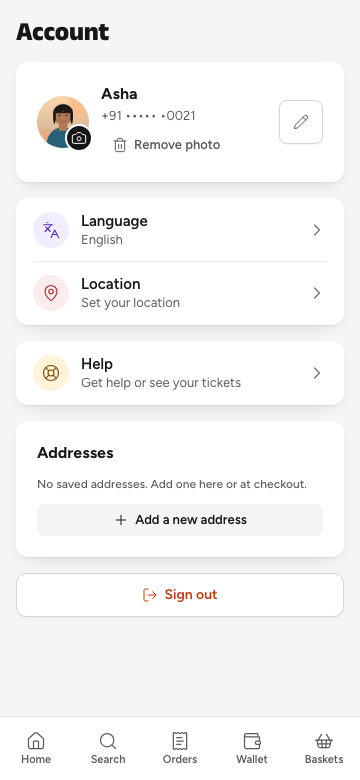
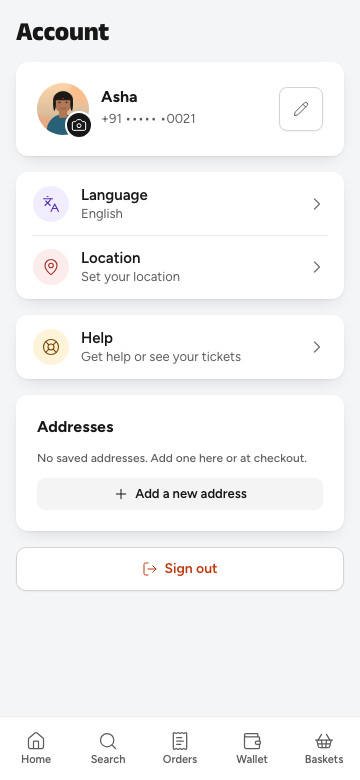
Profile photo: Remove moves off the Account card into the camera badge's sheet (founder, 26 Oct)
With a photo, the badge opens a sheet with "Choose a new photo" and "Remove photo"; without one it
still opens the picker. New strings in five locales (machine drafts); tests and shots refreshed.

Changed region(s): [[0.0917, 0.0923, 0.8861, 0.6769], [0.0917, 0.6769, 0.9167, 0.7692], [0.0306, 0.7385, 0.0611, 0.7692]]

diff --git a/customer/src/account/ProfilePhoto.tsx b/customer/src/account/ProfilePhoto.tsx
@@ -1,7 +1,8 @@
-// C-18 profile photo (D-259): the avatar shows the photo, else the initial; the camera badge picks a
-// new one (JPEG, PNG or WebP, at most 5 MB after the in-browser shrink) and "Remove photo" takes it
-// away. The server re-encodes it without metadata and shows it only to its owner.
-import { Button } from '@todayz/ui';
+// C-18 profile photo (D-259): the avatar shows the photo, else the initial. Without a photo the camera
+// badge opens the picker (JPEG, PNG or WebP, at most 5 MB after the in-browser shrink); with one it
+// opens a sheet to choose a new photo or remove it. The server re-encodes it without metadata and
+// shows it only to its owner.
+import { Button, Sheet } from '@todayz/ui';
 import { Camera, LoaderCircle, Trash2, UserRound } from 'lucide-react';
 import { useRef, useState, type ChangeEvent, type ReactNode } from 'react';
 import { useIntl } from 'react-intl';
@@ -17,10 +18,11 @@ export function PhotoImage({ url, fallback, className }: { url: string | null | 
   return <img src={url} alt="" className={className ?? p.img} onError={() => setBroken(url)} />;
 }
 
-/** The account avatar with its camera badge and the hidden file picker. */
+/** The account avatar with its camera badge, the hidden file picker and, with a photo, its sheet. */
 export function PhotoAvatar({ me, photo }: { me: Me; photo: PhotoState }) {
   const intl = useIntl();
   const input = useRef<HTMLInputElement>(null);
+  const [sheet, setSheet] = useState(false);
   const initial = [...(me.name?.trim() ?? '')][0]?.toUpperCase();
   const has = Boolean(me.photoUrl);
 
@@ -46,7 +48,9 @@ export function PhotoAvatar({ me, photo }: { me: Me; photo: PhotoState }) {
         aria-label={intl.formatMessage({ id: has ? 'account.photo.change' : 'account.photo.add' })}
         aria-disabled={photo.busy !== null}
         onClick={() => {
-          if (photo.busy === null) input.current?.click();
+          if (photo.busy !== null) return;
+          if (has) setSheet(true);
+          else input.current?.click();
         }}
       >
         <Icon icon={Camera} />
@@ -59,12 +63,43 @@ export function PhotoAvatar({ me, photo }: { me: Me; photo: PhotoState }) {
         data-testid="photo-input"
         onChange={chosen}
       />
+      <Sheet
+        open={sheet}
+        onClose={() => setSheet(false)}
+        title={intl.formatMessage({ id: 'account.photo.sheet.title' })}
+        closeLabel={intl.formatMessage({ id: 'account.photo.sheet.close' })}
+      >
+        <div className={p.sheet}>
+          <Button
+            variant="soft"
+            block
+            icon={Camera}
+            onClick={() => {
+              setSheet(false);
+              input.current?.click();
+            }}
+          >
+            {intl.formatMessage({ id: 'account.photo.choose' })}
+          </Button>
+          <Button
+            variant="soft-danger"
+            block
+            icon={Trash2}
+            onClick={() => {
+              setSheet(false);
+              void photo.remove();
+            }}
+          >
+            {intl.formatMessage({ id: 'account.photo.remove' })}
+          </Button>
+        </div>
+      </Sheet>
     </span>
   );
 }
 
-/** "Remove photo" (only with a photo) and the upload state, spoken politely. */
-export function PhotoActions({ me, photo }: { me: Me; photo: PhotoState }) {
+/** The upload or remove state, spoken politely, and any error. */
+export function PhotoActions({ photo }: { photo: PhotoState }) {
   const intl = useIntl();
   const status =
     photo.busy === 'upload'
@@ -74,11 +109,6 @@ export function PhotoActions({ me, photo }: { me: Me; photo: PhotoState }) {
         : null;
   return (
     <div className={p.actions}>
-      {me.photoUrl && (
-        <Button size="sm" variant="ghost" icon={Trash2} disabled={photo.busy !== null} onClick={() => void photo.remove()}>
-          {intl.formatMessage({ id: 'account.photo.remove' })}
-        </Button>
-      )}
       <p role="status" className={p.status}>
         {status}
       </p>

diff --git a/customer/e2e/profile-photo.spec.ts b/customer/e2e/profile-photo.spec.ts
@@ -4,7 +4,7 @@ import { readFileSync } from 'node:fs';
 
 // C-18 profile photo (D-259) at 360 px on the e2e build with a faked API (no stack): the initial,
 // adding a photo (register, PUT to storage with only Content-Type, confirm), the photo on Account
-// and in the Home header, a refused file, and removing it.
+// and in the Home header, a refused file, and removing it from the badge's sheet.
 // `TZ_QA_DIR=docs/qa/D-259 pnpm exec playwright test profile-photo.spec.ts` refreshes the committed shots.
 
 const PHONE = { width: 360, height: 780 } as const;
@@ -105,7 +105,7 @@ test('360: add, show and remove a profile photo (C-18, D-259)', async ({ page })
   await page.locator('input[type=file]').setInputFiles({ name: 'me.jpg', mimeType: 'image/jpeg', buffer: PORTRAIT });
   await expect(page.getByRole('button', { name: 'Change profile photo' })).toBeVisible();
   await expect(card.locator('img')).toHaveAttribute('src', GET_URL);
-  await expect(page.getByRole('button', { name: 'Remove photo' })).toBeVisible();
+  await expect(page.getByRole('button', { name: 'Remove photo' })).toHaveCount(0);
   expect(api.puts).toHaveLength(1);
   expect(api.puts[0]?.['content-type']).toBe('image/jpeg');
   await shot(page, 'customer-c18-photo-set-360.png');
@@ -114,8 +114,13 @@ test('360: add, show and remove a profile photo (C-18, D-259)', async ({ page })
   await expect(page.locator('header a[href="/account"] img')).toHaveAttribute('src', GET_URL);
   await shot(page, 'customer-c03-header-photo-360.png');
 
+  // With a photo, the badge opens a sheet: choose a new one or remove it.
   await page.goto('/account');
-  await page.getByRole('button', { name: 'Remove photo' }).click();
+  await page.getByRole('button', { name: 'Change profile photo' }).click();
+  const sheet = page.getByRole('dialog', { name: 'Profile photo' });
+  await expect(sheet.getByRole('button', { name: 'Choose a new photo' })).toBeVisible();
+  await shot(page, 'customer-c18-photo-sheet-360.png');
+  await sheet.getByRole('button', { name: 'Remove photo' }).click();
   await expect(page.getByRole('button', { name: 'Add a profile photo' })).toBeVisible();
   await expect(card.locator('img')).toHaveCount(0);
   await expect(card.getByText('A', { exact: true })).toBeVisible();

diff --git a/customer/src/test/profile-photo.test.tsx b/customer/src/test/profile-photo.test.tsx
@@ -82,7 +82,8 @@ describe('C-18 profile photo', () => {
     await act(async () => choose(jpeg()));
     await screen.findByRole('button', { name: 'Change profile photo' });
     expect(document.querySelector(`img[src="${PHOTO}"]`)).not.toBeNull();
-    expect(screen.getByRole('button', { name: 'Remove photo' })).toBeInTheDocument();
+    // Remove lives in the badge's sheet, not on the card.
+    expect(screen.queryByRole('button', { name: 'Remove photo' })).toBeNull();
 
     const reg = calls.find((c) => c.path === '/v1/me/photo/uploads');
     expect(reg?.body).toEqual({ contentType: 'image/jpeg', sizeBytes: 4 });
@@ -142,12 +143,25 @@ describe('C-18 profile photo', () => {
     expect(await screen.findByRole('alert')).toHaveTextContent("We couldn't update your photo. Try again.");
   });
 
-  it('removes the photo', async () => {
+  it('with a photo, the badge opens a sheet to choose a new one', async () => {
+    renderAt('/account', { returning: true, handlers: photoHandlers(PHOTO) });
+    await screen.findByText('Asha');
+    const click = vi.spyOn(screen.getByTestId<HTMLInputElement>('photo-input'), 'click');
+    fireEvent.click(screen.getByRole('button', { name: 'Change profile photo' }));
+    const sheet = await screen.findByRole('dialog', { name: 'Profile photo' });
+    expect(click).not.toHaveBeenCalled();
+    fireEvent.click(within(sheet).getByRole('button', { name: 'Choose a new photo' }));
+    expect(click).toHaveBeenCalled();
+  });
+
+  it('removes the photo from the sheet', async () => {
     const { calls } = renderAt('/account', { returning: true, handlers: photoHandlers(PHOTO) });
     await screen.findByText('Asha');
     expect(document.querySelector(`img[src="${PHOTO}"]`)).not.toBeNull();
+    fireEvent.click(screen.getByRole('button', { name: 'Change profile photo' }));
+    const sheet = await screen.findByRole('dialog', { name: 'Profile photo' });
     await act(async () => {
-      fireEvent.click(screen.getByRole('button', { name: 'Remove photo' }));
+      fireEvent.click(within(sheet).getByRole('button', { name: 'Remove photo' }));
     });
     await screen.findByRole('button', { name: 'Add a profile photo' });
     expect(document.querySelector('img')).toBeNull();

diff --git a/customer/src/routes/account.tsx b/customer/src/routes/account.tsx
@@ -163,7 +163,7 @@ function Profile({ me, note, setNote, editing, setEditing, photo }: ProfileProps
               {me.name || me.phoneMasked}
             </h2>
             {me.name && <p className="tz-card-desc">{me.phoneMasked}</p>}
-            <PhotoActions me={me} photo={photo} />
+            <PhotoActions photo={photo} />
           </div>
           {!editing && (
             <IconButton

diff --git a/customer/src/account/photo.module.css b/customer/src/account/photo.module.css
@@ -98,3 +98,9 @@
   flex-basis: 100%;
   color: var(--danger);
 }
+
+/* The sheet the badge opens when there is a photo: choose a new one or remove it. */
+.sheet {
+  display: grid;
+  gap: var(--space-2);
+}

diff --git a/docs/plan/12-decision-log.md b/docs/plan/12-decision-log.md
@@ -1570,7 +1570,7 @@ The questions are in `docs/qa/go-live-gaps/LIST.md`. The founder delegated them;
 - **Founder answers.** Moderation: "Show right away", so there is no review queue. Visibility: "Only the customer", so shops, staff and other customers never see it.
 - **Storage.** Migration `49901` adds `users.photo_key` and `user_photo_uploads` (`uploading | confirmed | expired`). The raw file and the cleaned photo live only in the private bucket. `GET /v1/me` carries `photoUrl`, a presigned GET valid for 15 minutes, for the customer app only (the business and admin apps get no `photoUrl`).
 - **Flow.** `POST /v1/me/photo/uploads` (`contentType` JPEG, PNG or WebP; `sizeBytes` at most 5 MB) returns a presigned PUT; the app PUTs with only `Content-Type`; `POST /v1/me/photo/uploads/{uploadId}/confirm` decodes it, re-encodes it as a JPEG of at most 512 px a side (the EXIF orientation applied, then every bit of metadata dropped, location included), stores it and removes the raw file and the previous photo. `DELETE /v1/me/photo` removes it. A file that will not decode, or would decode to more than 40 megapixels, is `422 validation_failed`. All three are `me.photo.manage`, customers only.
-- **In the app.** The browser shrinks the photo to at most 1024 px as a JPEG before sending (a 12 MP phone photo is well under 5 MB afterwards). The Account avatar has a camera badge that opens the file picker and a spinner while busy; "Remove photo" shows only when there is one. The Home header avatar shows the photo too. A link that no longer loads falls back to the initial.
+- **In the app.** The browser shrinks the photo to at most 1024 px as a JPEG before sending (a 12 MP phone photo is well under 5 MB afterwards). The Account avatar has a camera badge that opens the file picker and a spinner while busy; With a photo, the badge opens a sheet with "Choose a new photo" and "Remove photo"; the card itself has no remove button (founder, 26 Oct). The Home header avatar shows the photo too. A link that no longer loads falls back to the initial.
 - **Limit.** `profile_photo_uploads_per_hour` (default 10, 1–60) in `platform_settings`, counted per person over a rolling hour (`429 rate_limited`). The 5 MB, 512 px and 40 MP bounds are contract or safety bounds, not settings; 01 marks none of them configurable.
 - **Deletion.** Removing the photo deletes the file; deleting the account deletes every object the user's upload rows name, so a file a best-effort remove missed still goes with the account. An upload never confirmed is marked `expired` an hour later, at the customer's next registration.
 - **Not changed.** No review, no admin view and no use outside Account and the Home header. Hindi, Kannada, Tamil and Telugu strings are machine drafts until reviewed; English ships meanwhile.

diff --git a/docs/plan/06-screens.md b/docs/plan/06-screens.md
@@ -37,7 +37,7 @@ Screen owners are listed in [07-work-packages.md](07-work-packages.md). Where a 
 | C-15 | Wallet | WalletCard (black): balance, held, expiring soon; history lines in plain language; how credits work. |
 | C-16 | Refer | Code, share link (Web Share API with WhatsApp text), how it works (reward amounts from `ref_<kind>_referrer_credits` / `ref_<kind>_referee_credits`, unlock after the first qualifying order, 7-day attribution window from `ref_attribution_window_days`), referrals list with status. |
 | C-17 | Scan bill | Camera scanner for the POS bill QR (also opens from the phone's camera via URL); preview "₹480 at Sri Lakshmi · use up to 30 credits" (credits offered only when the bill after discounts is ₹100 or more; a reached cap shows "Credits can't be used at this shop today" for the store's daily cap or "You've used this month's credit limit" for the customer's monthly cap, D-30, D-76); Confirm; success state; expired QR message. Also shows the **counter code** (4 digits rotating every 60 s, works offline) under "Paying at the counter without internet?". |
-| C-18 | Account | Profile photo (D-259): the avatar shows the photo, else the initial; a camera badge picks a JPEG, PNG or WebP (≤ 5 MB after the in-browser shrink) with a spinner while it uploads, "Remove photo" when there is one, and a polite error line (wrong type, too big, unreadable, hourly limit). Name, phone (masked), addresses, language, notifications (push opt-in explained), sign out, sign out everywhere, delete account (confirm with OTP; blocked with an explanation while an order is not finished; warns that the wallet balance is forfeited, D-31, and that asks are deleted, D-101), legal links. |
+| C-18 | Account | Profile photo (D-259): the avatar shows the photo, else the initial; a camera badge picks a JPEG, PNG or WebP (≤ 5 MB after the in-browser shrink) with a spinner while it uploads, with a photo the badge opens a sheet with "Choose a new photo" and "Remove photo" (no remove button on the card), and a polite error line (wrong type, too big, unreadable, hourly limit). Name, phone (masked), addresses, language, notifications (push opt-in explained), sign out, sign out everywhere, delete account (confirm with OTP; blocked with an explanation while an order is not finished; warns that the wallet balance is forfeited, D-31, and that asks are deleted, D-101), legal links. |
 | C-19 | Help | FAQs, my tickets, new ticket (linked to an order), call/WhatsApp support link. |
 | C-20 | Notifications inbox | List, read state, deep links. |
 | C-21 | Restricted state | When no-show strikes limit the account: banner on Home/Checkout explaining the limit and its end date. |

diff --git a/customer/CLAUDE.md b/customer/CLAUDE.md
@@ -65,4 +65,4 @@ W3-12 (consumer AI, D-231, D-235): `src/ai/features.ts` reads `GET /v1/me/ai/fea
 
 C-17 Scan bill `/scan/$token` (`src/scan/`) and C-24 receipt `/r/$token` (`src/receipt/`): the POS bill QR and receipt links open in the app. Scan signs a signed-out person in first, previews the bill (credits off until switched on, as at checkout) and confirms with an Idempotency-Key; the in-app camera scanner and the counter code are not built. The receipt needs no sign-in, shows no customer data and is noindex. Unit: `src/test/scan-receipt.test.tsx`.
 
-D-259 profile photo (C-18, C-03): `src/account/photo.ts` (`useProfilePhoto`: check type, shrink to ≤ 1024 px JPEG in the browser, check 5 MB, register, PUT with only `Content-Type`, confirm, then reload `['me']` for the ETag) and `src/account/ProfilePhoto.tsx` (`PhotoAvatar` camera badge and hidden picker, `PhotoActions` "Remove photo" and status, `PhotoImage` falls back to the initial when the signed link fails). The state lives in Account's `SignedIn` so it outlives the Profile remount. Home's header avatar shows `me.photoUrl`. Only the customer sees the photo (private bucket, 15-minute link). Unit: `src/test/profile-photo.test.tsx`; Playwright at 360 px: `e2e/profile-photo.spec.ts`; report `docs/qa/D-259/REPORT.md`.
+D-259 profile photo (C-18, C-03): `src/account/photo.ts` (`useProfilePhoto`: check type, shrink to ≤ 1024 px JPEG in the browser, check 5 MB, register, PUT with only `Content-Type`, confirm, then reload `['me']` for the ETag) and `src/account/ProfilePhoto.tsx` (`PhotoAvatar` camera badge, hidden picker and, with a photo, a sheet with "Choose a new photo" and "Remove photo"; `PhotoActions` the status and error lines, `PhotoImage` falls back to the initial when the signed link fails). The state lives in Account's `SignedIn` so it outlives the Profile remount. Home's header avatar shows `me.photoUrl`. Only the customer sees the photo (private bucket, 15-minute link). Unit: `src/test/profile-photo.test.tsx`; Playwright at 360 px: `e2e/profile-photo.spec.ts`; report `docs/qa/D-259/REPORT.md`.

diff --git a/docs/qa/D-259/REPORT.md b/docs/qa/D-259/REPORT.md
@@ -49,7 +49,8 @@ A signed-in customer can add, change and remove a profile photo. It shows on Acc
 - **`src/account/ProfilePhoto.tsx`**:
   - `PhotoImage` falls back to the initial when the signed link no longer loads;
   - `PhotoAvatar` has a camera badge, a hidden file input and a spinner;
-  - `PhotoActions` has "Remove photo", a polite status line and an error line.
+  - With a photo, the camera badge opens a sheet: "Choose a new photo" or "Remove photo". The card has no remove button (founder, 26 Oct: "dont keep remove photo").
+  - `PhotoActions` has a polite status line and an error line.
 - **Wiring:**
   - `routes/account.tsx` keeps the photo state in `SignedIn`, so it outlives the Profile remount after a reload;
   - `home/Header.tsx` shows the photo in the avatar link.
@@ -95,7 +96,8 @@ The unit tests cover:
 
 - `customer-c18-photo-initial-360.png`: initial and camera badge
 - `customer-c18-photo-refused-360.png`: a GIF refused
-- `customer-c18-photo-set-360.png`: the photo and "Remove photo"
+- `customer-c18-photo-set-360.png`: the photo on the card, no remove button
+- `customer-c18-photo-sheet-360.png`: the badge's sheet, "Choose a new photo" and "Remove photo"
 - `customer-c03-header-photo-360.png`: the photo in the Home header
 
 ## Risks and follow-ups
